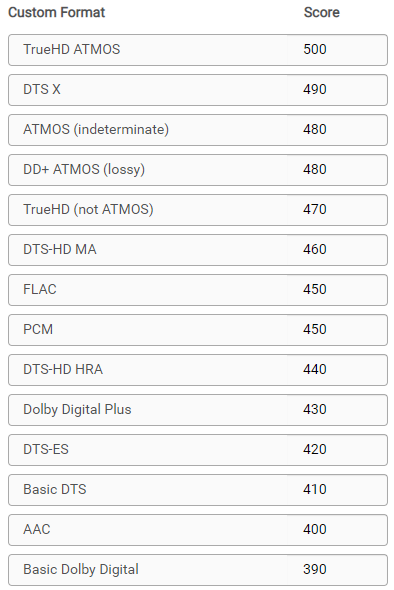
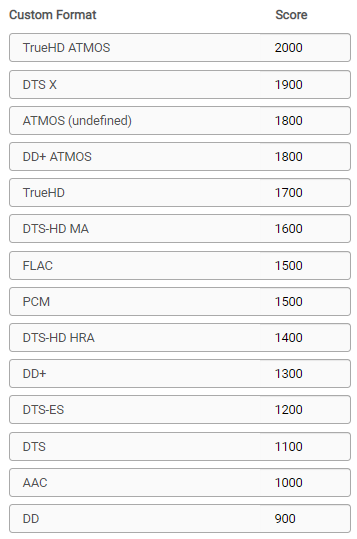
Updated: to match new scoring system

Changed region(s): [[0.0, 0.0, 0.986, 1.0]]

diff --git a/docs/Radarr/Radarr-setup-custom-formats.md b/docs/Radarr/Radarr-setup-custom-formats.md
@@ -89,11 +89,11 @@ All these examples make use of the [Collection of Custom Formats](/Radarr/Radarr
 
     ### Which overall scoring scheme do you use
 
-    - **Advanced Audio** 500 for the highest with steps of 10 down.
-    - **HDR Metadata** 300 for the highest with steps of 10 down.
+    - **Advanced Audio** 2000 for the highest with steps of 100 down.
+    - **HDR Metadata** 1000 for the highest with steps of 100 down (except for Dovi SL).
     - **Movie Versions** 200 for the highest with steps of 10 down.
-    - **Misc** 100 with steps of 10 down.
-    - **Releases you should avoid** -9999
+    - **Misc** Variable depending on your use case.
+    - **Releases you should avoid** -10000
 
     If you notice that some scores are missing between the different Quality Profiles examples it's because I decided to be consistent with the scoring. Meaning a certain Custom Format has in every used Quality Profile the same score.
 
@@ -104,9 +104,9 @@ All these examples make use of the [Collection of Custom Formats](/Radarr/Radarr
 In my opinion this is a must for every Quality Profile you use, all these Custom Formats make sure you don't get Low Quality Releases.
 
 !!! info
-    Add all of the following Custom Formats as `-1000` or even `-9999`
+    Add all of the following Custom Formats as `-10000`
 
-![!cf-misc-1000](images/cf-misc-1000.png)
+![!cf-misc-10000](images/cf-misc-10000.png)
 
 ??? example "Breakdown and Why"
 
@@ -115,9 +115,11 @@ In my opinion this is a must for every Quality Profile you use, all these Custom
     - **Low Quality Releases** A collection of known Low Quality groups that are often banned from the the top trackers because the lack of quality or other reasons.
     - **720/1080p no x265** This blocks/ignores 720/1080p releases that are encoded in x265 - More info [HERE](/Misc/x265-4k/){:target="_blank" rel="noopener noreferrer"}.
     - **3D** Is 3D still a thing for home use ?
+    - **No-RlsGroup** Some indexers strip out the release group what could result in LQ groups getting a higher score. For example a lot of EVO releases end up stripping the group name, so they appear as "upgrades", and they end up getting a decent score if other things match
+    - **DoVi (WEBDL)** This is a special Custom Format that ignores DV for WEB-DL but together with the normal DoVi allows for other sources. WEB-DL from Streaming Services don't have the fallback to HDR(10), What can results in weird playback issues like weird colors if you want to play it on a not DoVi compatible setup. Remuxes and Bluray have a fallback to HDR(10).
 
 ??? success "example"
-    ![!cf-misc-1000-result](images/cf-misc-1000-result.png)
+    ![!cf-misc-10000-result](images/cf-misc-10000-result.png)
 
 !!! tip
     You might even can consider to add [Multi](/Radarr/Radarr-collection-of-custom-formats/#multi){:target="_blank" rel="noopener noreferrer"} if you want to make sure you don't grab releases with often foreign audio.
@@ -165,7 +167,7 @@ If you prefer HQ Encodes (Bluray-720/1080/2160p)
 I suggest to first follow the [Quality Settings (File Size)](/Radarr/Radarr-Quality-Settings-File-Size/){:target="_blank" rel="noopener noreferrer"}
 If you think the sizes are to big to your preference then stop reading and see if the other tutorials are helpful for you. :bangbang:
 
-For this Quality Profile we're going to make use of `Movie Versions`, `Misc (-1000)` and `Misc`
+For this Quality Profile we're going to make use of `Movie Versions`, `Misc (-10000)` and `Misc`
 
  :bangbang: **Make sure you add the [Releases you should avoid](#releases-you-should-avoid)** :bangbang:
 
@@ -205,7 +207,7 @@ If you prefer 1080p Remuxes (Remux-1080p)
 I suggest to first follow the [Quality Settings (File Size)](/Radarr/Radarr-Quality-Settings-File-Size/){:target="_blank" rel="noopener noreferrer"}
 If you think the sizes are to big to your preference then stop reading and see if the other tutorials are helpful for you. :bangbang:
 
-For this Quality Profile we're going to make use of `Audio Advanced`, `Movie Versions`, `Misc (-1000)` and `Misc`
+For this Quality Profile we're going to make use of `Audio Advanced`, `Movie Versions`, `Misc (-10000)` and `Misc`
 
  :bangbang: **Make sure you add the [Releases you should avoid](#releases-you-should-avoid)** :bangbang:
 
@@ -239,7 +241,7 @@ If you prefer 2160p Remuxes (Remux-2160p)
 I suggest to first follow the [Quality Settings (File Size)](/Radarr/Radarr-Quality-Settings-File-Size/){:target="_blank" rel="noopener noreferrer"}
 If you think the sizes are to big to your preference then stop reading and see if the other tutorials are helpful for you. :bangbang:
 
-For this Quality Profile we're going to make use of `Audio Advanced`,  `HDR Metadata`,`Movie Versions`, `Misc (-1000)` and `Misc`
+For this Quality Profile we're going to make use of `Audio Advanced`,  `HDR Metadata`,`Movie Versions`, `Misc (-10000)` and `Misc`
 
  :bangbang: **Make sure you add the [Releases you should avoid](#releases-you-should-avoid)** :bangbang:
 
@@ -284,22 +286,8 @@ Because I'm to lazy to calculate the maximum for every of my used Quality Profil
 
 ??? FAQ "How to use a Custom Formats to avoid certain releases?"
 
-    For Custom Formats you really want to avoid, set it to something really low like `-1000` or even `-9999` and not something like `-10`.
+    For Custom Formats you really want to avoid, set it to something really low like `-10000` and not something like `-10`.
     Being when you add a Custom Format what you prefer and you set it to something like `+10` it could happen that for example the `BR-DISK` will be downloaded (-10)+(+10)=0 and if your `Minimum Custom Format Score` is set at `0`.
-
-### Audio vs Audio Advanced
-
-??? FAQ "What's the difference between Audio vs Audio Advanced?"
-
-    What's the biggest difference between these two ?
-
-    The Custom Formats in the `Audio` are kinda global and not specific based on the best audio format.
-
-    Personally I recommend to use the `Audio Advanced` they are already ordered from high to low if you prefer HD audio (with object metadata)
-
-    !!! warning
-
-        Don't use `Audio` Custom Format in combination with the `Audio Advanced` Custom Formats.
 
 ### Custom Formats with a score of 0
 
